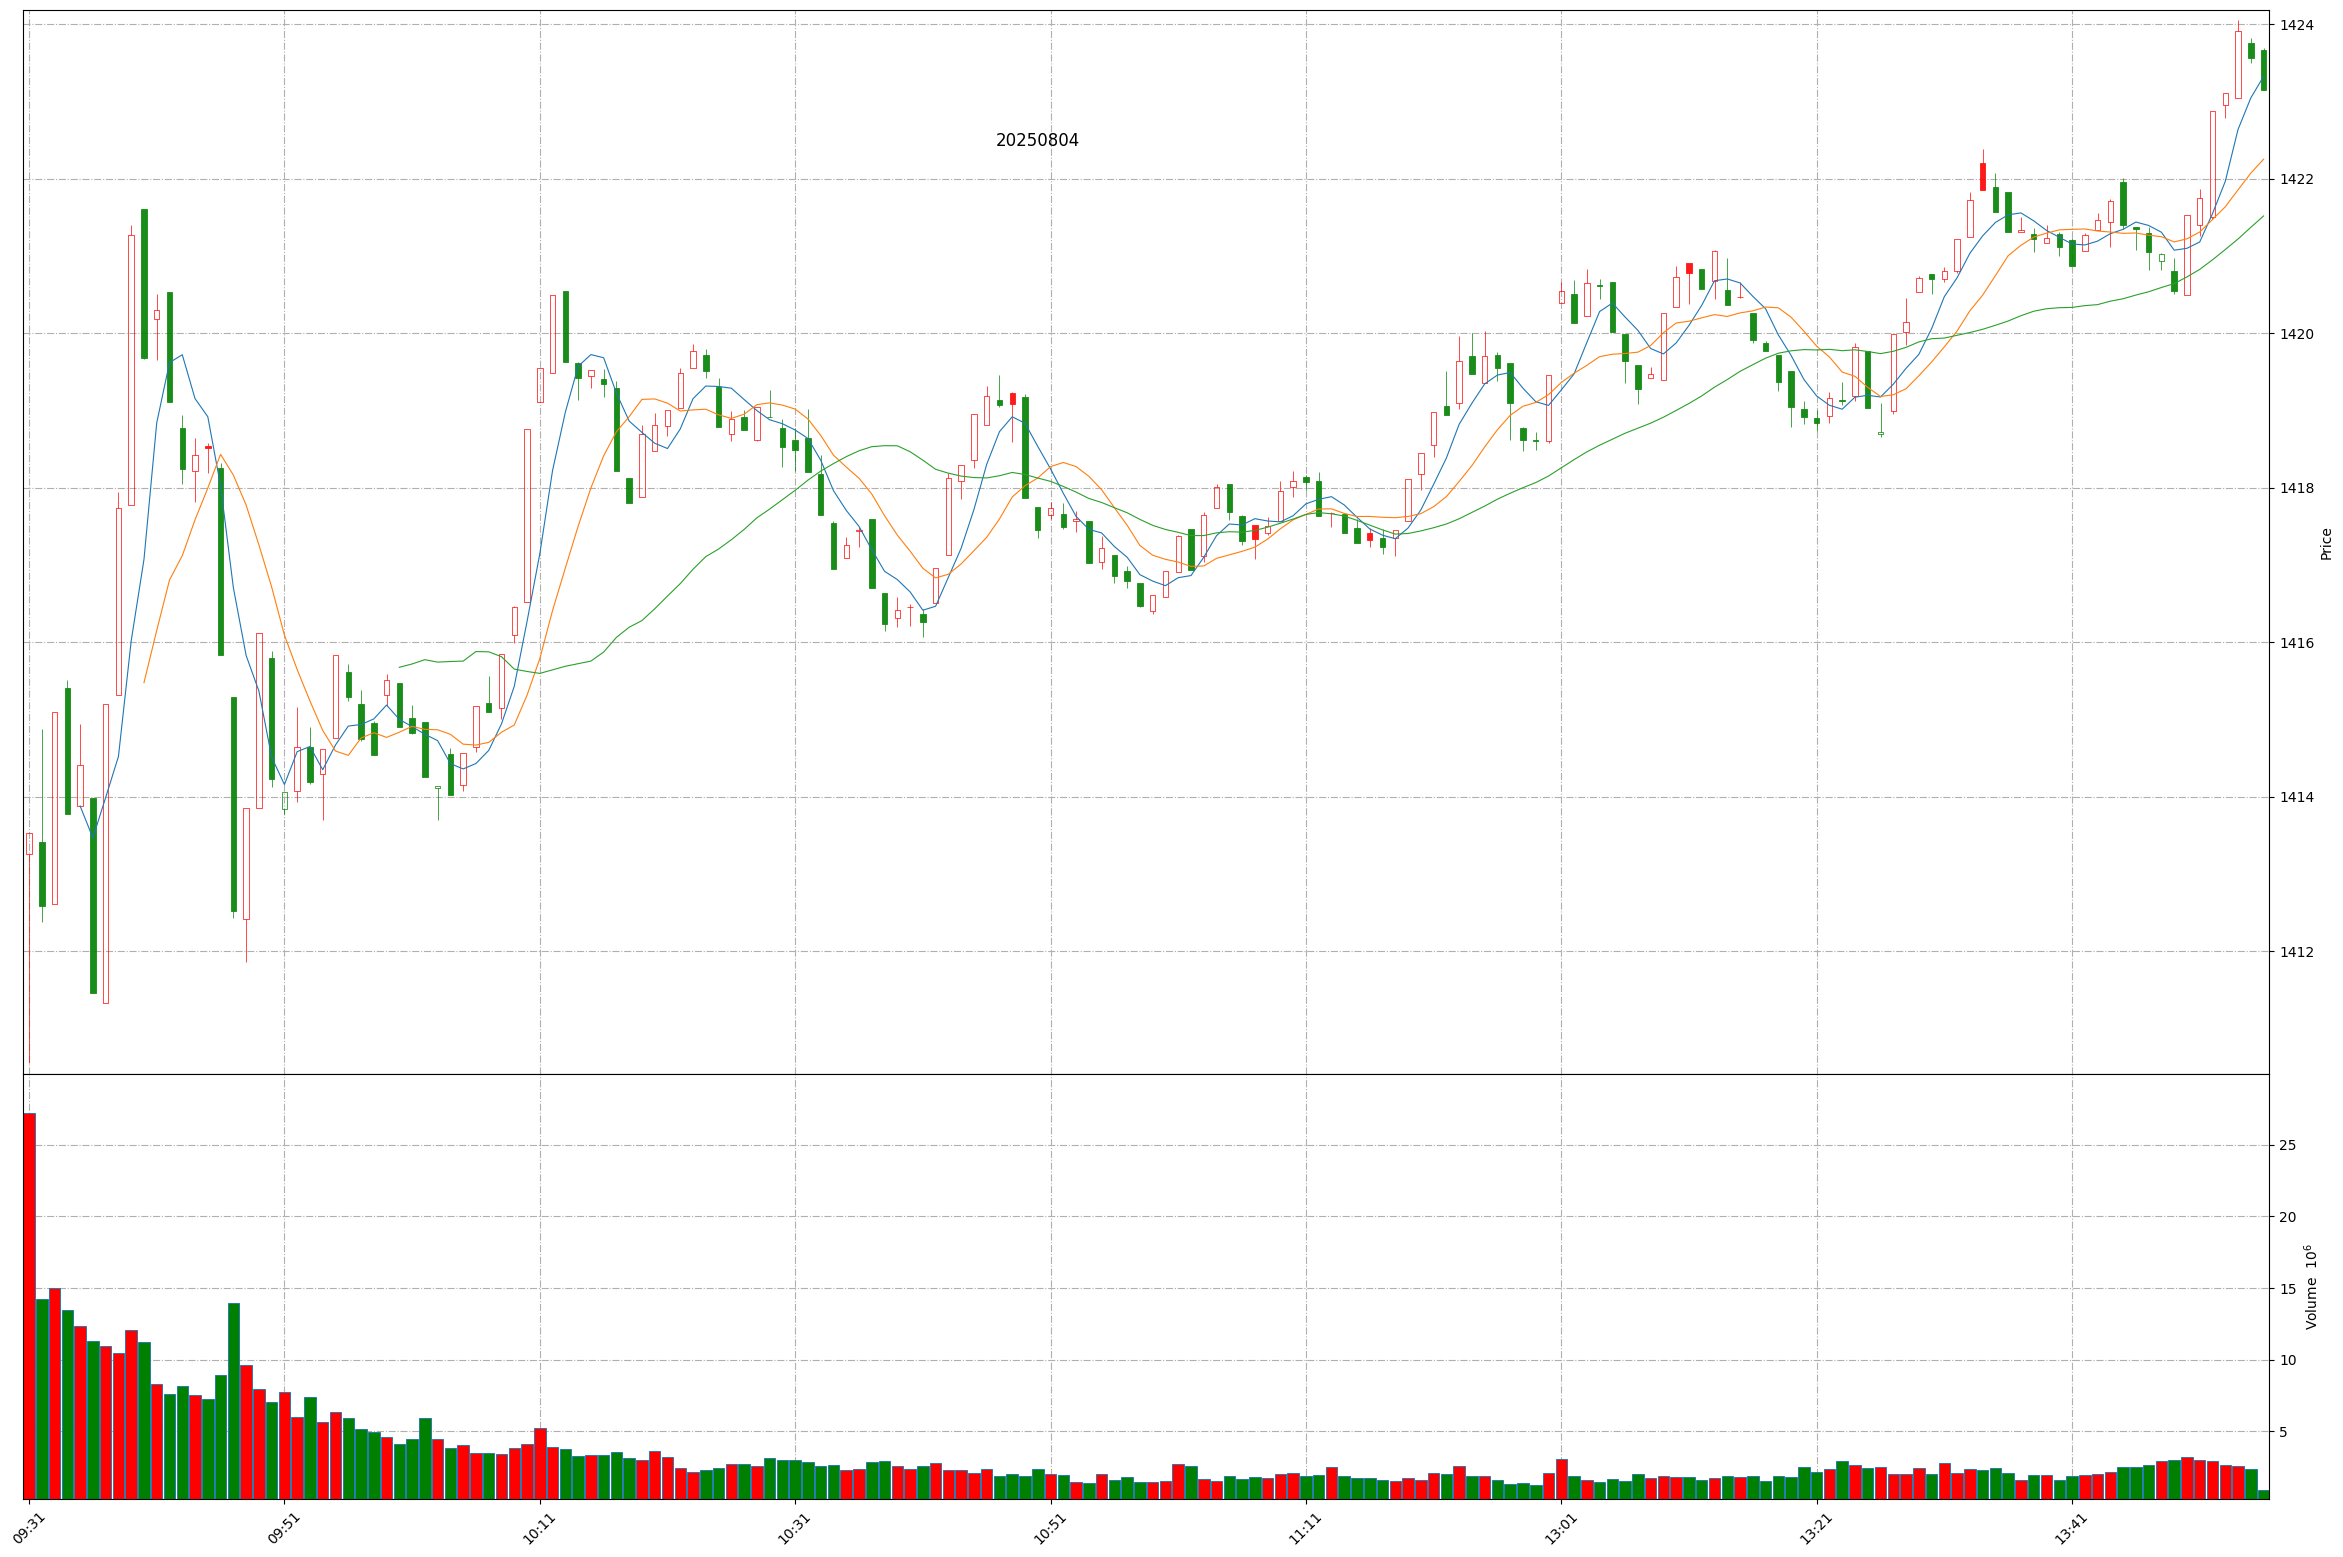
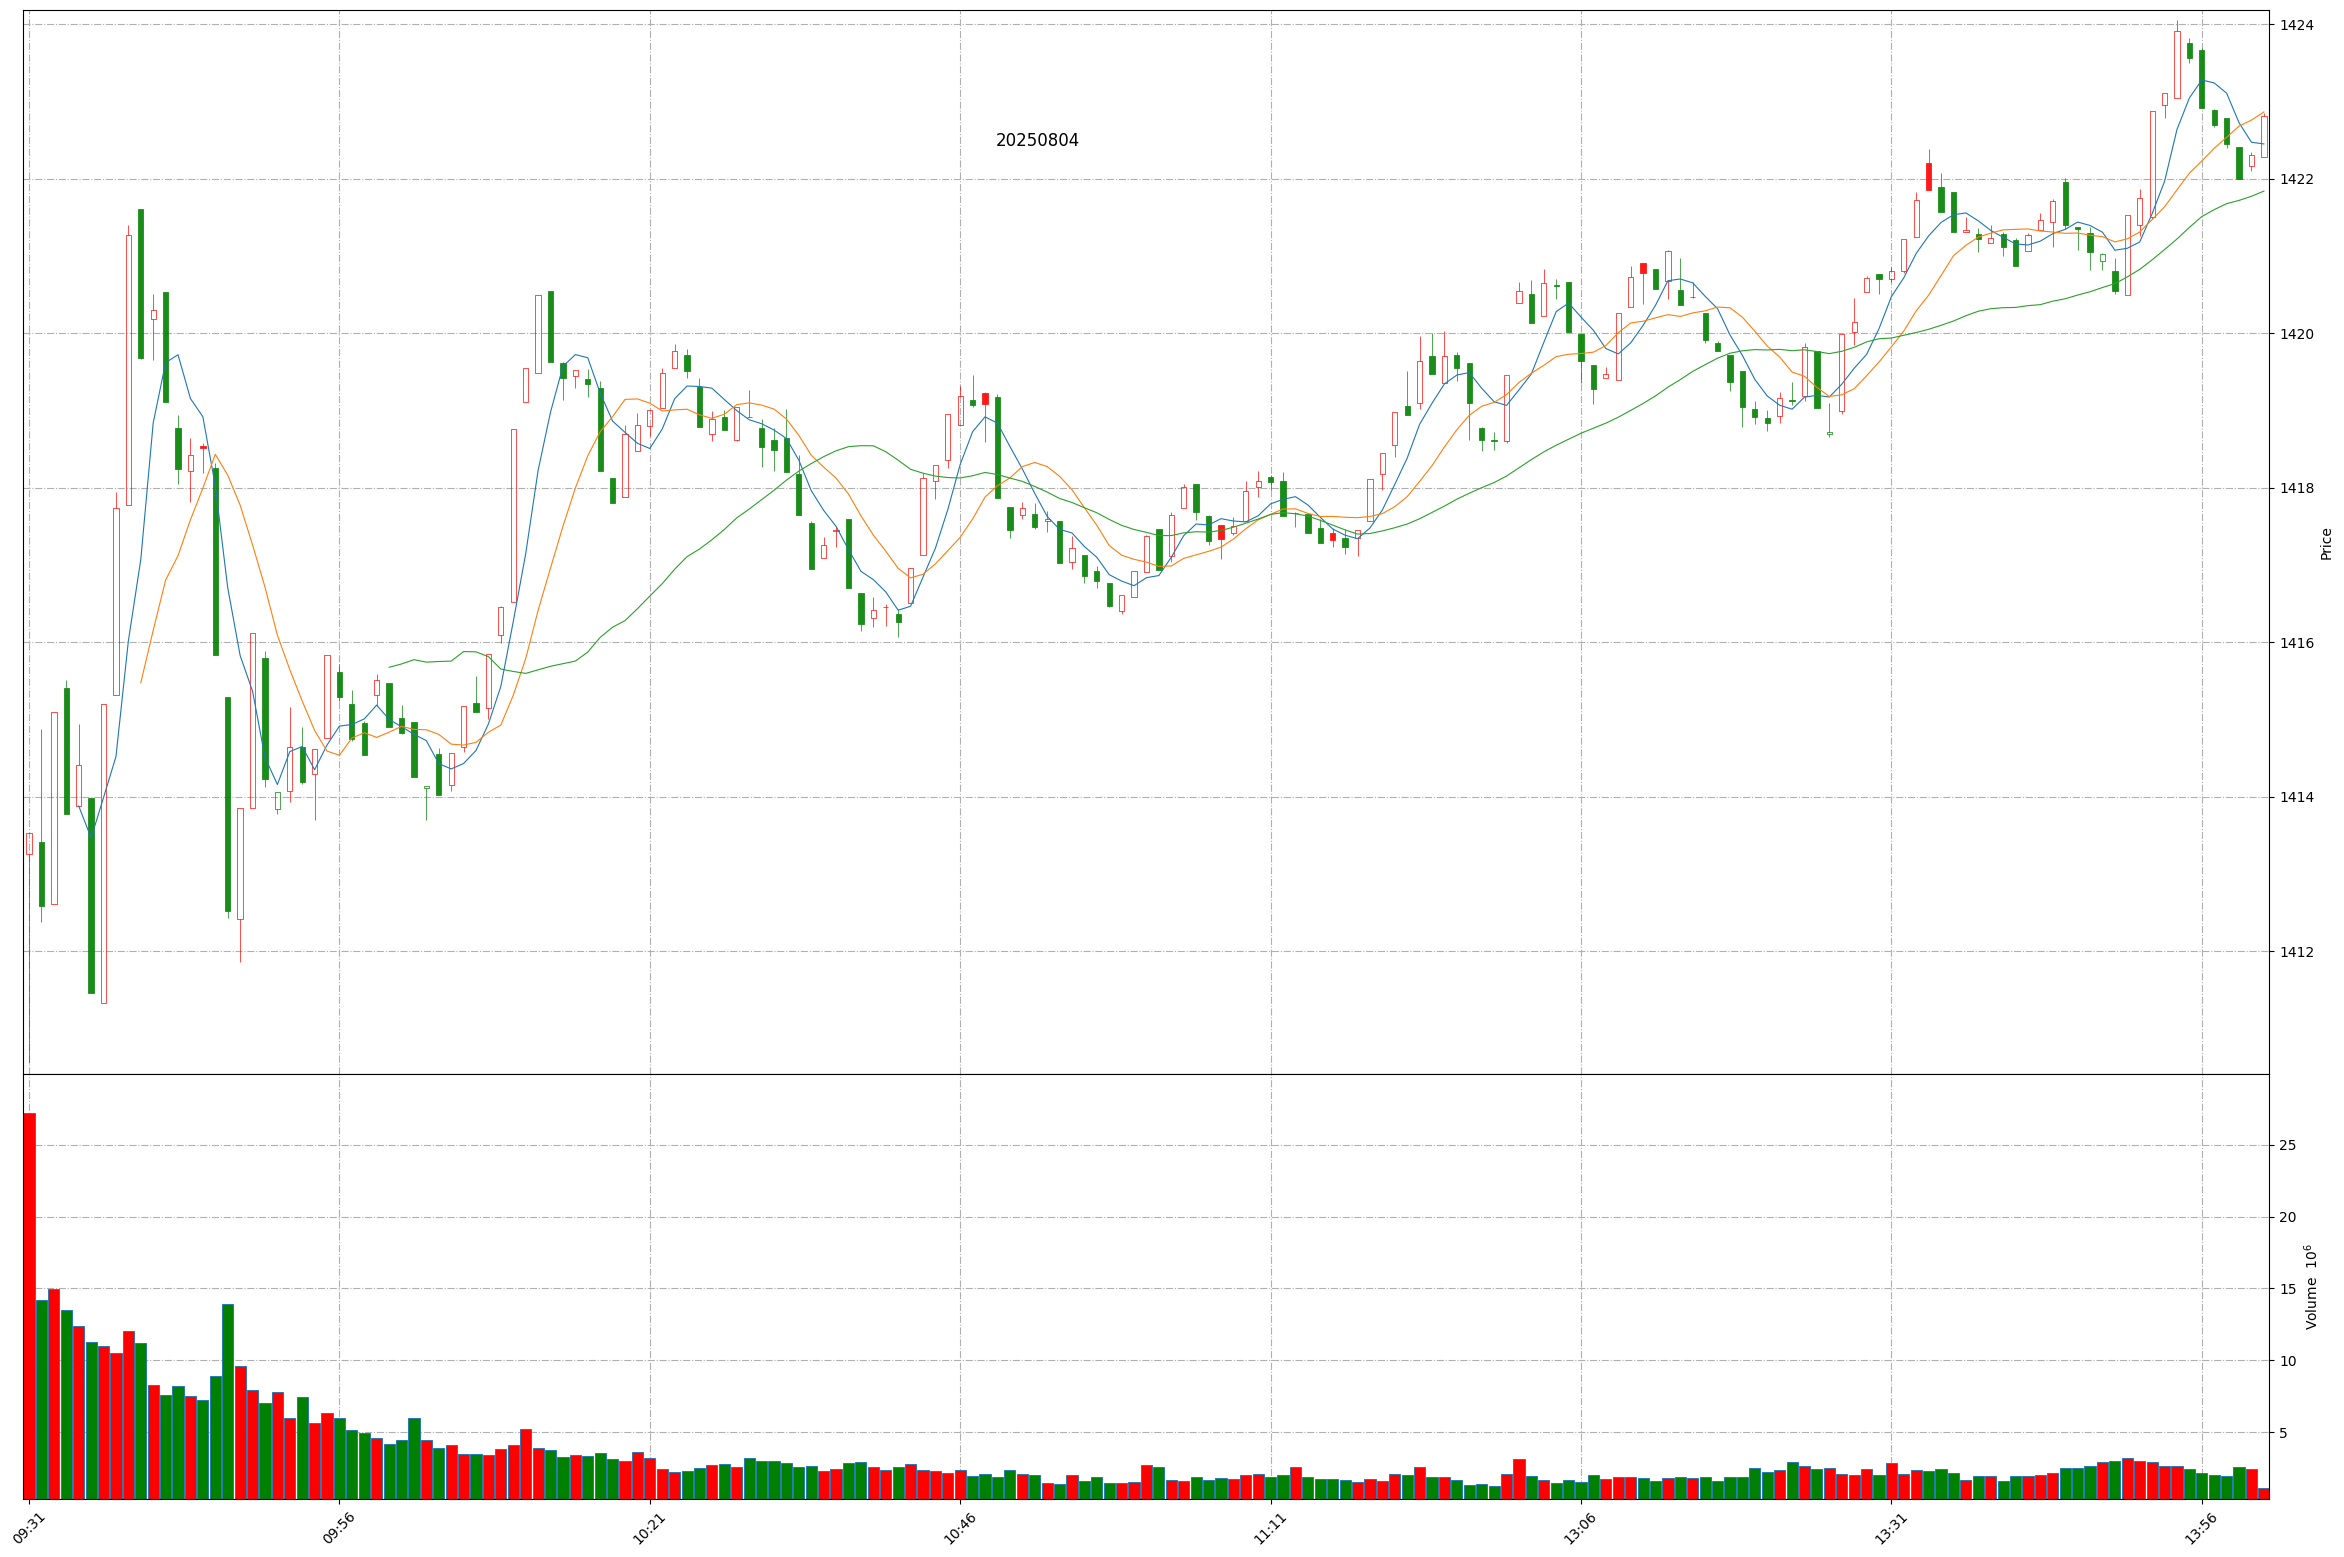
Github action update at 2025-08-04 14:00:41.

Changed region(s): [[0.0312, 0.1541, 0.8101, 0.6166], [0.0312, 0.8324, 0.9659, 0.9865], [0.8101, 0.0308, 0.9659, 0.2158]]

diff --git a/README.md b/README.md
@@ -1,11 +1,11 @@
 
 # Daily-A-share-market-quotes 每日 A 股指数（5min 更新）- 20250804
 
-### 上证指数 20250804 13:55
+### 上证指数 20250804 14:0
 ![](./fig/2025/8/20250804-sh000001.png)
 
-### 深证成指 20250804 13:55
+### 深证成指 20250804 14:0
 ![](./fig/2025/8/20250804-sz399001.png)
 
-### 北证50 20250804 13:55
+### 北证50 20250804 14:0
 ![](./fig/2025/8/20250804-bj899050.png)
